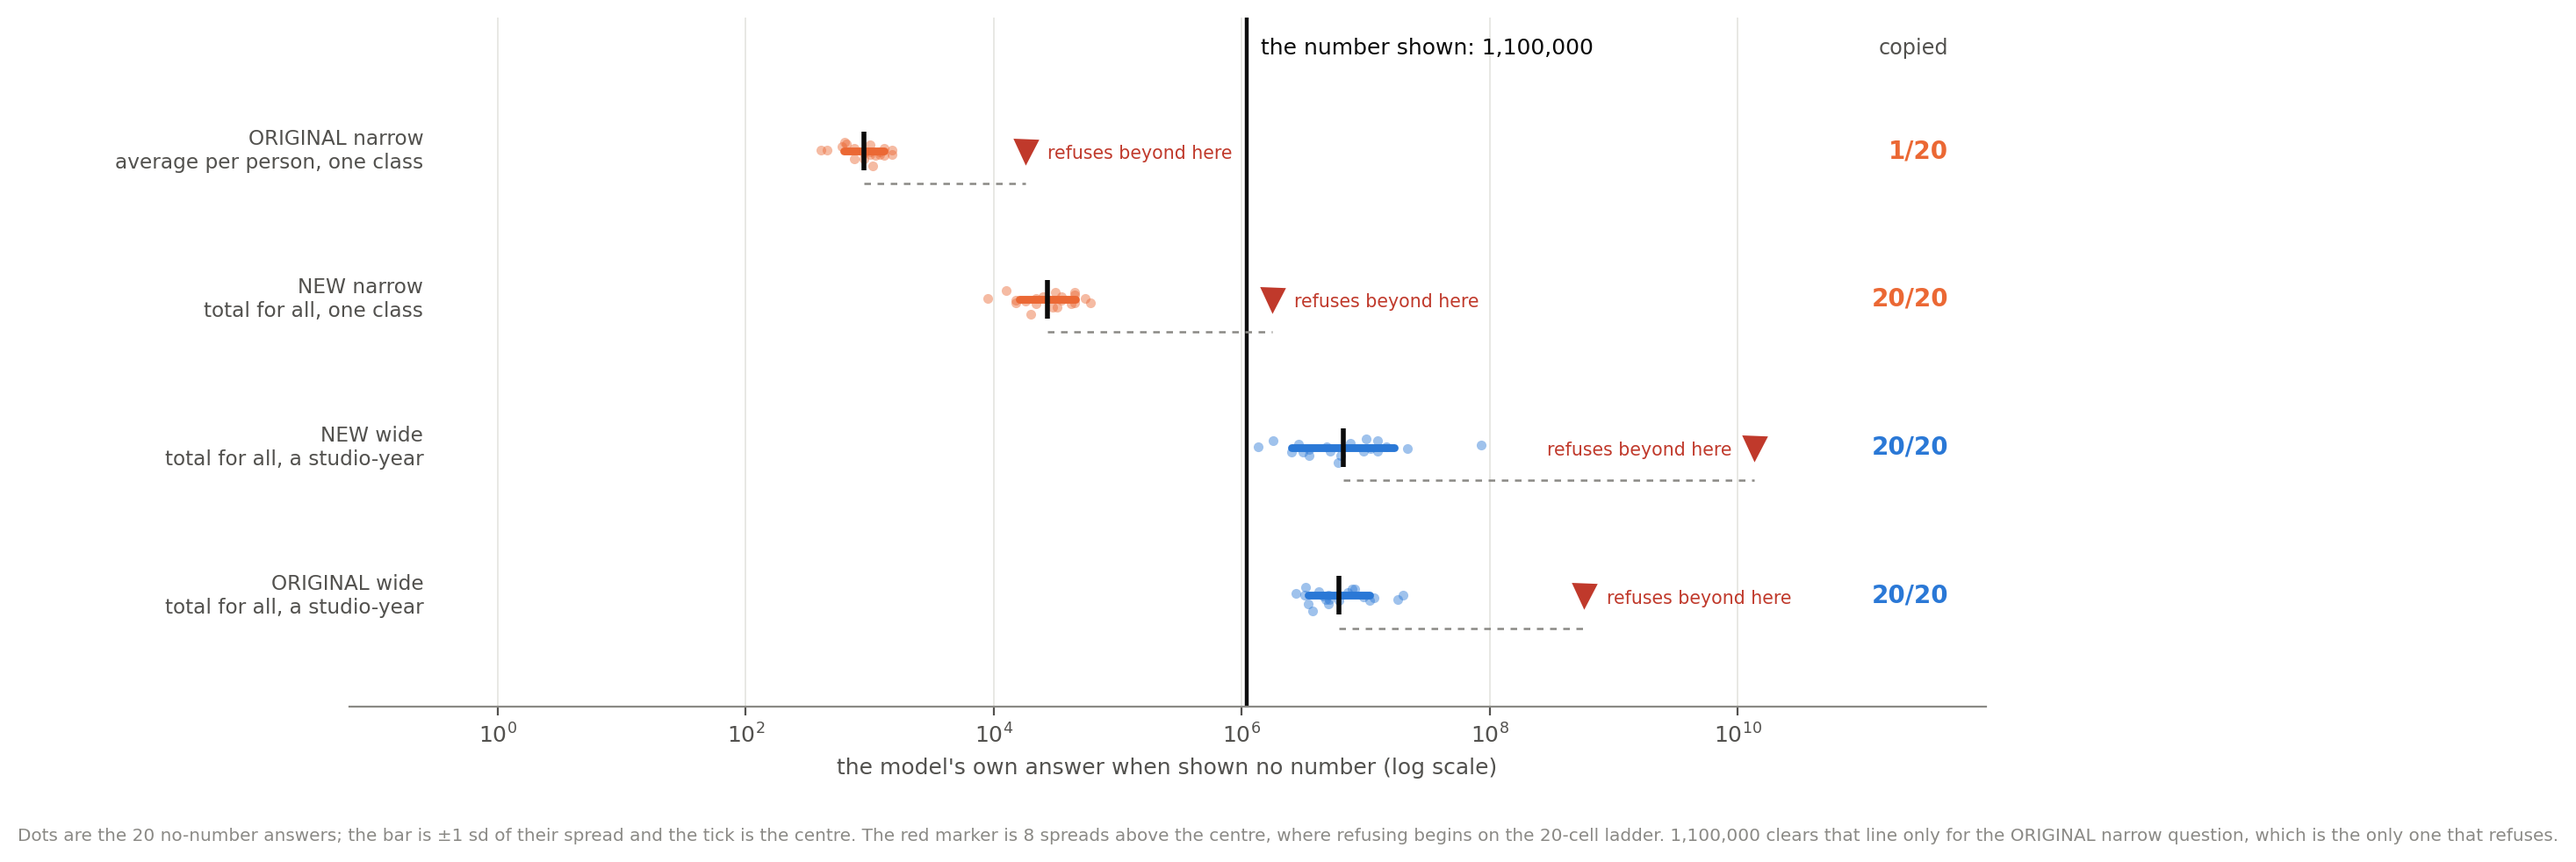
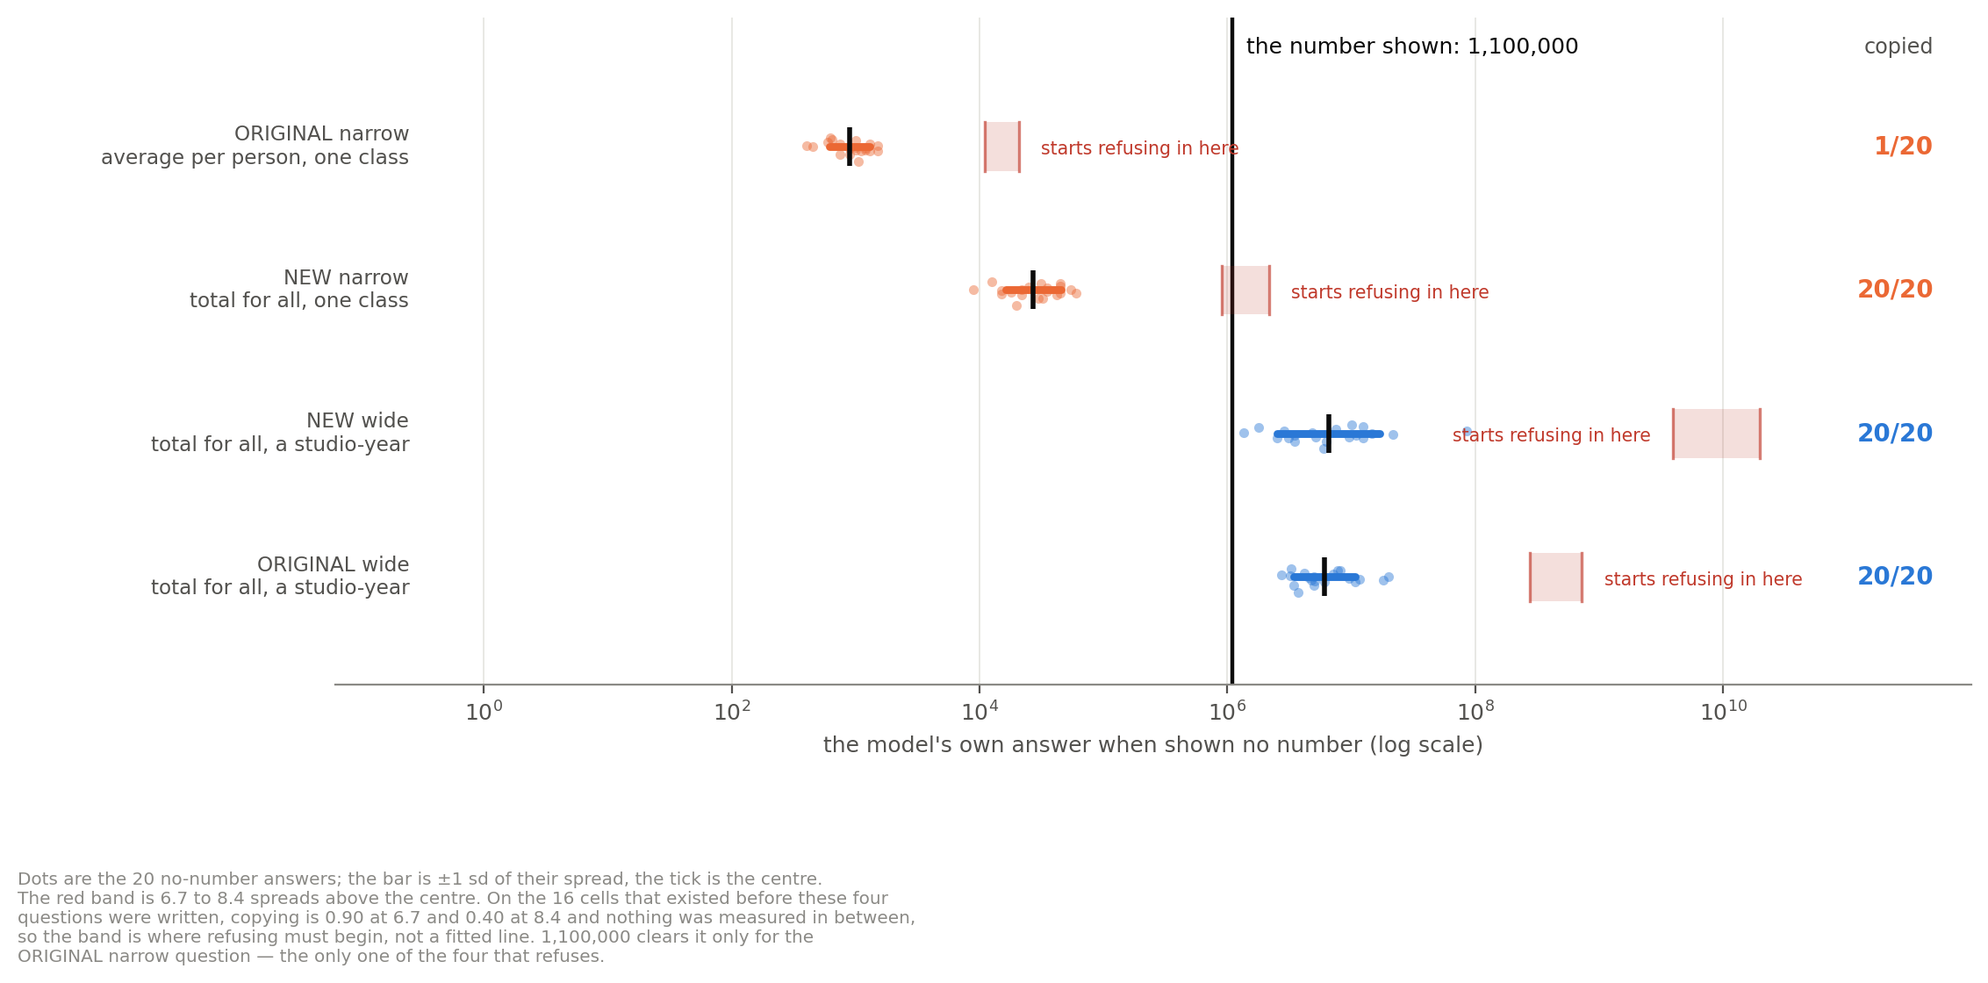
Refusal band: state its provenance, widen it to the measured interval
Asked where the 'refuses beyond here' line came from. It is read off the
ladder, where the tbc dose-response supplies 5 of 11 positive-z cells, but the
transition is not measured: nothing lies between z=6.7 (copying 0.90) and
z=8.4 (0.40). Redrawn as that interval rather than a line at 8, and the whole
transition rests on one intermediate point (giraffes x1000).

The band was also placed after seeing the new cells it explains, so it is now
checked out of sample: a rule fit on the original 16 alone (refuse above 7.5)
predicts all 4 new cells correctly.

diff --git a/src/figures_steps_failure.py b/src/figures_steps_failure.py
@@ -1,7 +1,13 @@
 """Why the clean steps swap did not discriminate (FINDINGS_minimal_pairs_2026-09-14.md).
 
 Each steps question's own no-number answers, on a log scale, with the attached numeral and the
-point at which that question starts refusing (z = 8, read off the 20-cell ladder).
+region where that question starts refusing.
+
+The refusal region is drawn as a BAND, not a line. On the 16 cells that existed before these four
+questions were written, copy rate is 0.90 at z = 6.7 and 0.40 at z = 8.4 and nothing was measured
+between, so the transition is bracketed, not located. A rule fit on those 16 alone (refuse above
+z = 7.5) predicts all four new cells correctly, which is the out-of-sample check that this figure
+is not circular.
 """
 import json, math, re, sys
 import numpy as np
@@ -30,7 +36,7 @@ ROWS = [("tbc", "results/our_baseline.jsonl",
          "ORIGINAL wide\ntotal for all, a studio-year", "20/20", BLUE)]
 SHOWN = 1_100_000.0
 
-fig, ax = plt.subplots(figsize=(11.4, 4.9))
+fig, ax = plt.subplots(figsize=(11.4, 5.6))
 for i, (q, path, lab, rate, col) in enumerate(ROWS):
     y = len(ROWS) - 1 - i
     v = ests(path, q); lg = np.log10(v)
@@ -39,14 +45,19 @@ for i, (q, path, lab, rate, col) in enumerate(ROWS):
                s=16, color=col, alpha=.45, zorder=3, linewidths=0)
     ax.plot([mu - sd, mu + sd], [y, y], color=col, lw=3.2, solid_capstyle="round", zorder=4)
     ax.plot([mu], [y], "|", color=INK, ms=16, mew=2, zorder=5)
-    cut = mu + 8 * sd                     # z = 8, where refusing starts on the 20-cell ladder
-    ax.plot([cut], [y], "v", color="#c0392b", ms=9, zorder=6)
-    ax.plot([mu, cut], [y - .22, y - .22], color=MUTED, lw=.9, ls=(0, (3, 3)), zorder=2)
+    # The transition is NOT measured: on the original 16 cells nothing lies between z = 6.7
+    # (copied 0.90) and z = 8.4 (copied 0.40). Draw the interval, not a line.
+    lo_c, hi_c = mu + 6.7 * sd, mu + 8.4 * sd
+    ax.fill_between([lo_c, hi_c], y - .17, y + .17, color="#c0392b", alpha=.16,
+                    linewidth=0, zorder=2)
+    for xc in (lo_c, hi_c):
+        ax.plot([xc, xc], [y - .17, y + .17], color="#c0392b", lw=1.2, alpha=.65, zorder=3)
+    cut = hi_c
     if cut > 9.0:
-        ax.text(cut - .18, y - .02, "refuses beyond here", fontsize=7.4, color="#c0392b",
+        ax.text(lo_c - .18, y - .02, "starts refusing in here", fontsize=7.4, color="#c0392b",
                 va="center", ha="right")
     else:
-        ax.text(cut + .18, y - .02, "refuses beyond here", fontsize=7.4, color="#c0392b",
+        ax.text(cut + .18, y - .02, "starts refusing in here", fontsize=7.4, color="#c0392b",
                 va="center")
     ax.text(-0.6, y, lab, fontsize=8.4, color=INK2, ha="right", va="center")
     ax.text(11.7, y, rate, fontsize=10, color=col, ha="right", va="center", weight="bold")
@@ -59,11 +70,13 @@ ax.set_xticks(range(0, 12, 2))
 ax.set_xticklabels([f"$10^{{{t}}}$" for t in range(0, 12, 2)])
 ax.set_xlabel("the model's own answer when shown no number (log scale)", fontsize=9)
 ax.text(11.7, 3.62, "copied", fontsize=8.6, color=INK2, ha="right", va="bottom")
-fig.text(0.005, 0.015,
-         "Dots are the 20 no-number answers; the bar is ±1 sd of their spread and the tick is the centre. "
-         "The red marker is 8 spreads above the centre, where refusing begins on the 20-cell ladder. "
-         "1,100,000 clears that line only for the ORIGINAL narrow question, which is the only one that refuses.",
+fig.text(0.012, 0.015,
+         "Dots are the 20 no-number answers; the bar is \u00b11 sd of their spread, the tick is the centre.\n"
+         "The red band is 6.7 to 8.4 spreads above the centre. On the 16 cells that existed before these four\n"
+         "questions were written, copying is 0.90 at 6.7 and 0.40 at 8.4 and nothing was measured in between,\n"
+         "so the band is where refusing must begin, not a fitted line. 1,100,000 clears it only for the\n"
+         "ORIGINAL narrow question \u2014 the only one of the four that refuses.",
          fontsize=7.2, color=MUTED)
-fig.tight_layout(rect=[0.04, 0.06, 1, 1])
+fig.tight_layout(rect=[0.04, 0.20, 1, 1])
 fig.savefig("figures/fig10_steps_failure.png", dpi=200)
 print("wrote figures/fig10_steps_failure.png")

diff --git a/FINDINGS_minimal_pairs_2026-09-14.md b/FINDINGS_minimal_pairs_2026-09-14.md
@@ -61,9 +61,29 @@ land between the two: above 10^6.25 ≈ 1,760,000 for the narrow member to refus
 
 ![Why the clean steps swap could not discriminate](figures/fig10_steps_failure.png)
 
-*Figure. Each steps question's own no-number answers. The red marker is where that question starts
-refusing (8 spreads above its centre). 1,100,000 clears the line only for the original narrow
-question, which is the only one that refuses.*
+*Figure. Each steps question's own no-number answers. The red band is where that question starts
+refusing. 1,100,000 clears it only for the original narrow question, the only one of the four that
+refuses.*
+
+**Where the refusal band comes from, and whether it is circular.** It is read off the ladder, and
+the tbc dose-response supplies 5 of the 11 positive-z cells there. The transition itself is **not
+measured**: on the 16 cells that existed before these four questions were written, copying is 0.90
+at z = 6.7 and 0.40 at z = 8.4, and nothing lies in between, so the band is an interval the
+transition must fall inside rather than a fitted line. Two further caveats: the whole transition
+rests on a single intermediate point (giraffes ×1000 at 0.40 is the only cell of the 20 that is
+neither ≥ 0.90 nor ≤ 0.15), and the band was placed after these four cells were in hand.
+
+So it was checked out of sample. Fitting the rule on the original 16 alone (refuse above z = 7.5)
+and predicting the four new cells:
+
+| new cell | z | predicted | actual |
+|---|---|---|---|
+| tbc_wide_h | −1.9 | copy | copied 20/20 |
+| bridge_wide_h | 5.8 | copy | copied 19/20 |
+| tbc_narrow_total | 7.1 | copy | copied 20/20 |
+| bridge_narrow_h | 18.3 | refuse | copied 1/20 |
+
+**4 of 4 correct**, from a rule fixed before any of these questions existed.
 
 **So the clean steps test is uninformative about scope, not evidence against it.** Two separate
 things are true: the original steps pair was confounded (aggregation moved as well as scope), and the
